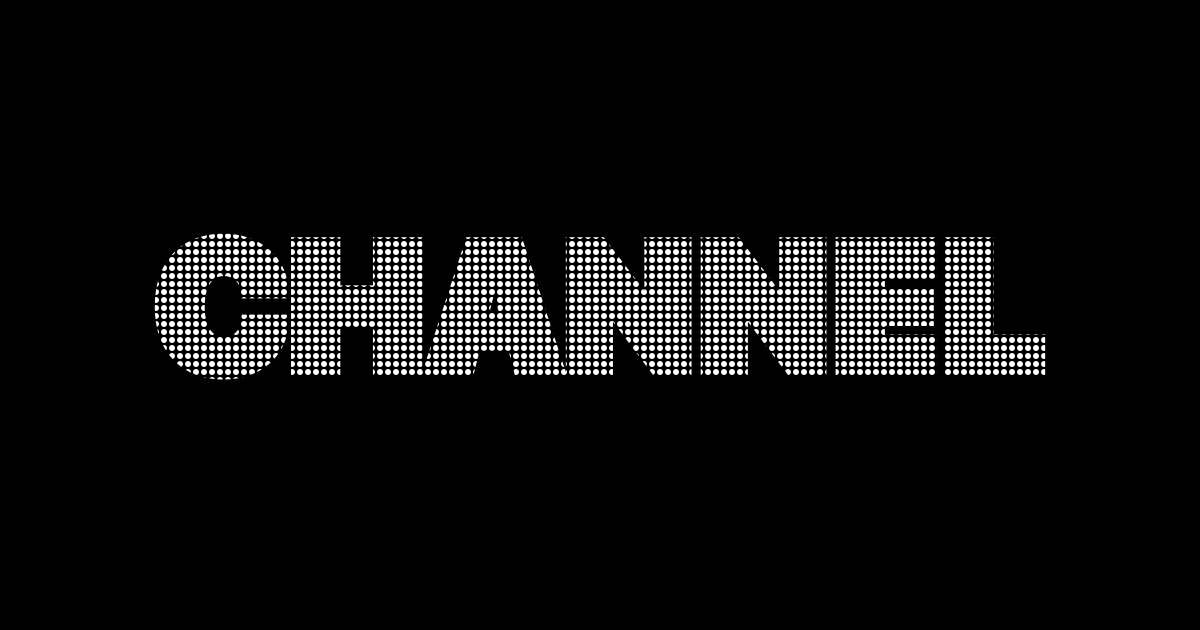
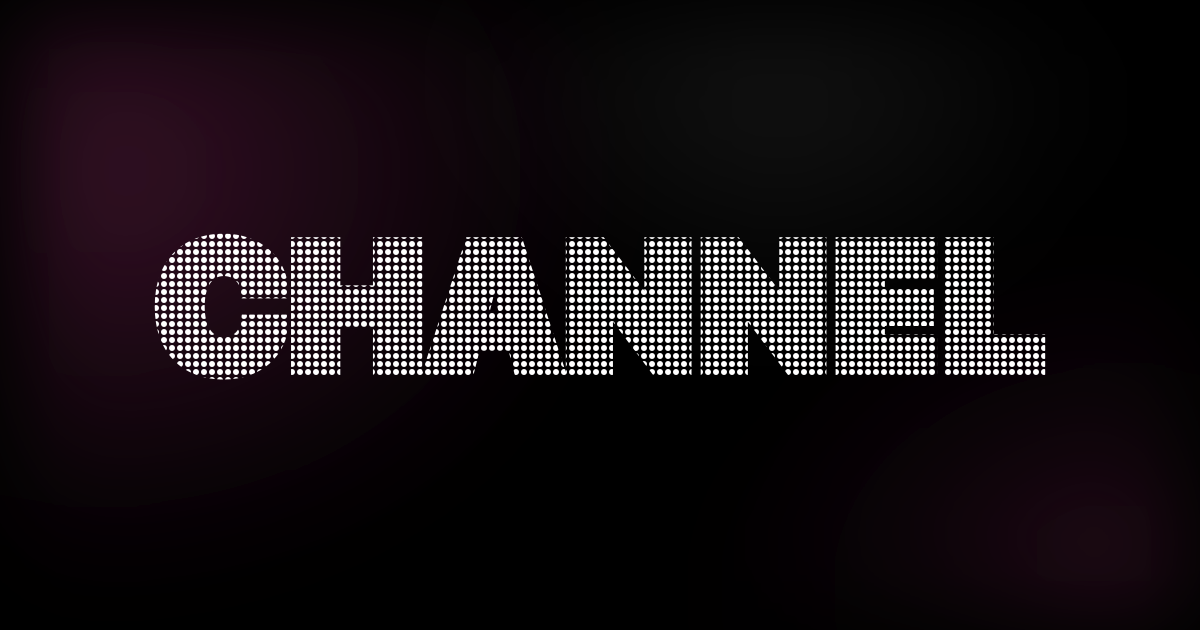
Update OG metadata and image with new branding
- Change OG title/description to "Never miss the DJs you care about."
- Update OG image with dark/pink gradient background matching site theme

Changed region(s): [[0.0, 0.0603, 0.3083, 0.6032], [0.8942, 0.8143, 0.925, 0.9048]]

diff --git a/src/app/layout.tsx b/src/app/layout.tsx
@@ -4,12 +4,12 @@ import "./globals.css";
 import { Providers } from "./Providers";
 
 export const metadata: Metadata = {
-  title: "Super app for DJ communities",
-  description: "The live-streaming app for DJ shows. Turn every listen into real support for independent culture.",
+  title: "Never miss the DJs you care about.",
+  description: "Never miss the DJs you care about.",
   metadataBase: new URL("https://channel-app.com"),
   openGraph: {
-    title: "Super app for DJ communities",
-    description: "The live-streaming app for DJ shows. Turn every listen into real support for independent culture.",
+    title: "Never miss the DJs you care about.",
+    description: "Never miss the DJs you care about.",
     type: "website",
     url: "https://channel-app.com",
     images: [
@@ -22,8 +22,8 @@ export const metadata: Metadata = {
   },
   twitter: {
     card: "summary_large_image",
-    title: "Super app for DJ communities",
-    description: "The live-streaming app for DJ shows. Turn every listen into real support for independent culture.",
+    title: "Never miss the DJs you care about.",
+    description: "Never miss the DJs you care about.",
     images: ["/og-image.png"],
   },
   icons: {
